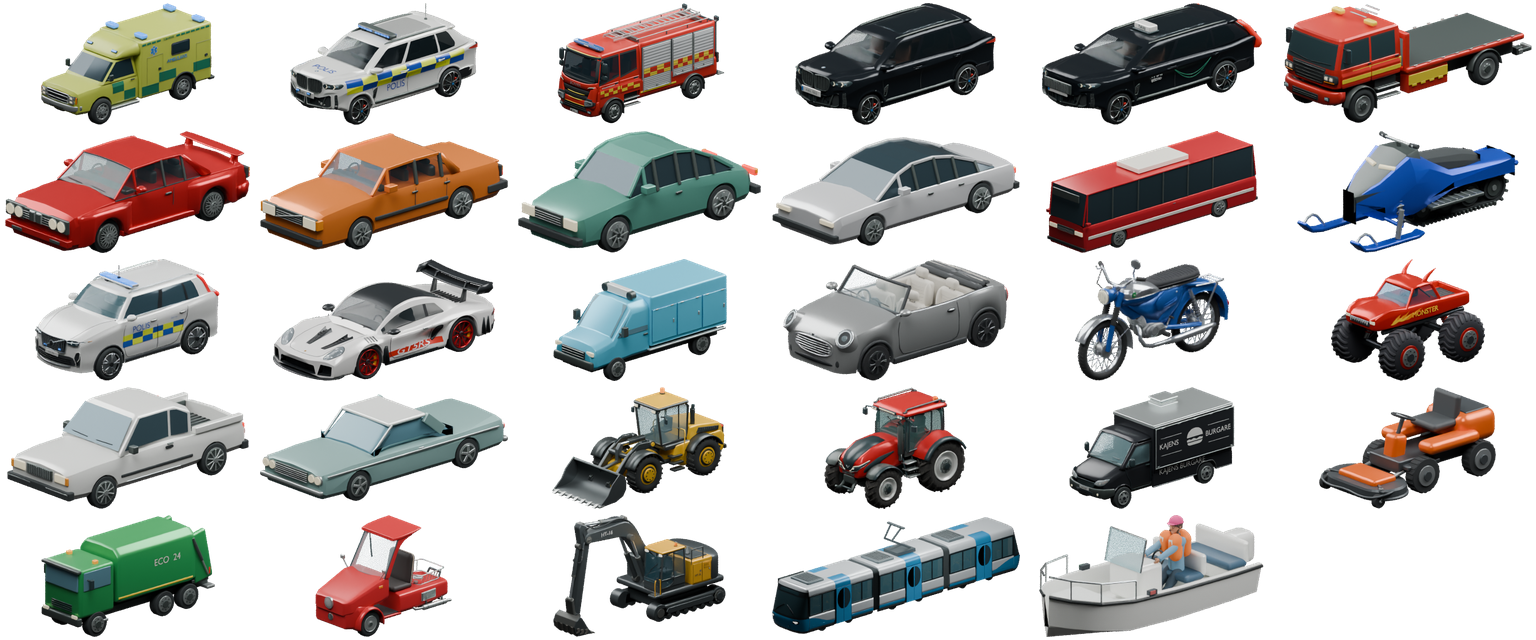
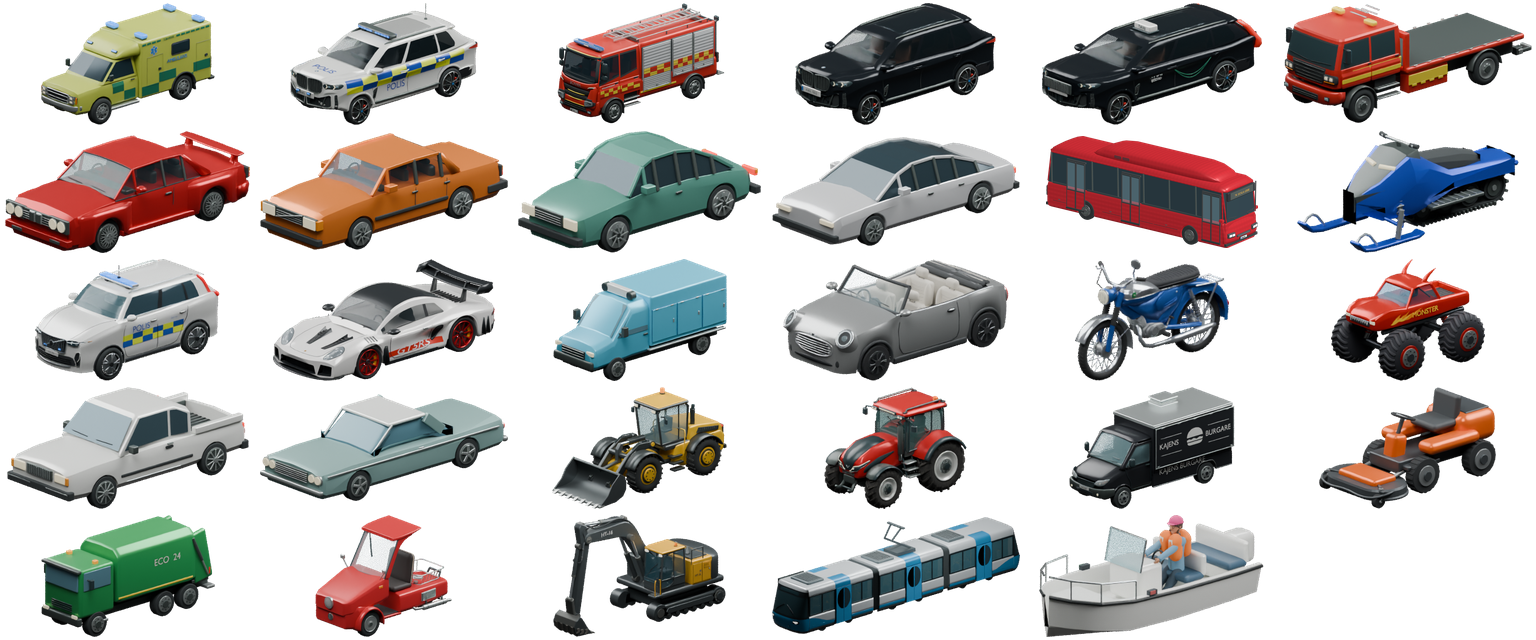
Refresh the line 74 bus image in the vehicle menu

Changed region(s): [[0.6562, 0.1875, 0.8438, 0.4062]]

diff --git a/docs/Arbetslista.md b/docs/Arbetslista.md
@@ -144,5 +144,5 @@ Listan innehåller 100 jobb. En tom ruta är öppen. En punkt bockas av när bet
   - På AMD Radeon Graphics (Renoir) med Vulkan Mobile, 1920 × 1080 och V-sync mättes 105 verkliga bildintervall per ljusläge från samma kamera. Simuleringen stegade 0,2 sekunder per steg för att alla tre spelarna skulle hinna kasta under färjans överfart. Dag: median 54,5 ms, 95:e percentil 64,2 ms. Natt: median 60,2 ms, 95:e percentil 67,1 ms.
 - [ ] 100. Spela igenom en leverans från början till slut med musik och trafik igång. Anteckna exakt var en replik blir svår att höra och justera mixen där. Däckskrik, sopbilens kärllyft och färjans ombordstigningssignal går nu genom talstyrd dämpning. Verifierat med testsignal i Godot. Flakbilen har provkörts från torget till bageriet med svensk radio och tio trafikfordon. Lastning, väntan vid rödljus och mottagningskvitto fungerade. Vid torget låg radions toppnivå minst 16 dB under talets vid de uppmätta talproven under vägbeskrivningen. Vid en ny inspelning låg radions topp över talets under ett kort parti ungefär en sekund in i vägbeskrivningen. Radion hålls nu nere genom hela telefonrepliken med upp till 8 dB extra dämpning. En ny provkörning gav mottagningskvitto med den justerade mixen. En lyssningsbedömning återstår. Radions låttitel visas under överkantens högra sida. En lång titel ryms utan överlapp med telefon eller uppdragstext på alla sju språk vid prov med brandbilen. Farten och körhjälpen har separata rader som följer textens höjd. Kontrollerat under det svenska brandbilsuppdraget vid kliniken.
 
-- [ ] Modellera om buss 74 mot Sickla Udde. Rundat tak, vindrutetorkare och strålkastarramar har kontrollerats i spelet. Stålfälgar, stolsrader och gula handräcken har också kontrollerats i Godot. Testet för alla sex hållplatser passerade efter ändringen. Nedre karosspaneler och vänsterstyrd förarplats med instrumentpanel och ratt har lagts till. Den ordinarie förarvyn kontrollerades genom vindrutan vid en korsning. Bakpartiet fick motorlucka, kylgaller och reflexer. Den bakre destinationsskylten granskades i Godot och ruttestet passerade igen. Fronten har fått mörk skyltinfattning och registreringsskylten HBR 074. Kontrollerat i Godot med [SL:s foto av linje 74](https://www.mynewsdesk.com/se/sl/news/bussar-och-daaligt-vaeglag-442788) som visuell referens. Bakljusen har separata orange, röda och vita linser. Backljus och avgångsblinkers verifierades i Godot. Den valda spelaren syns nu vid ratten i bussens yttre vy. Förarens sittställning granskades genom vindrutan. Axel och Alma behöll greppet vid styrning åt båda håll och doldes korrekt i förarvyn. Båda vindrutetorkarna sveper vid nederbörd och återgår till viloläget, verifierat i Godot. Bussen har också en destinationsskylt vid framdörren, granskad i Godot. Visuell delbedömning mot SL:s front- och sidofoto: silhuett 74, proportioner 72, färg och material 76, exteriöra detaljer 78. Oviktat medel 75/100. Referensbussen har mjukare front, mer integrerade strålkastare och tydligare dörrparti. Referensen ger för lite insyn för att betygsätta interiören. Efter bedömningen modellerades tre dubbeldörrar med tonat glas och egna karmar. Framdörren flyttades framför framaxeln. Fronten fick välvd panel, nedre luftintag och fyra infattade linser. De två ljuskäglorna följer linsernas positioner. Granskad i Godot med godkänt ruttest. Den upphöjda takkåpan har nu avsmalnande ändar och ventiler. Ny visuell delbedömning mot samma sidoreferens efter dörrar, front och takkåpa: silhuett 84, proportioner 79, färg och material 76, exteriöra detaljer 85. Medel 81/100 vid den bedömningen. Därefter fick karossen dämpad röd lack, mörka fönsterlister och ett längre gummigolv. Färgsättning och golv granskade i Godot och ruttestet passerade. Tre takarmaturer lyser upp kupén när det blir mörkt. Tändning och släckning verifierades i ruttestet och kupén granskades i nattläge.
+- [ ] Modellera om buss 74 mot Sickla Udde. Rundat tak, vindrutetorkare och strålkastarramar har kontrollerats i spelet. Stålfälgar, stolsrader och gula handräcken har också kontrollerats i Godot. Testet för alla sex hållplatser passerade efter ändringen. Nedre karosspaneler och vänsterstyrd förarplats med instrumentpanel och ratt har lagts till. Den ordinarie förarvyn kontrollerades genom vindrutan vid en korsning. Bakpartiet fick motorlucka, kylgaller och reflexer. Den bakre destinationsskylten granskades i Godot och ruttestet passerade igen. Fronten har fått mörk skyltinfattning och registreringsskylten HBR 074. Kontrollerat i Godot med [SL:s foto av linje 74](https://www.mynewsdesk.com/se/sl/news/bussar-och-daaligt-vaeglag-442788) som visuell referens. Bakljusen har separata orange, röda och vita linser. Backljus och avgångsblinkers verifierades i Godot. Den valda spelaren syns nu vid ratten i bussens yttre vy. Förarens sittställning granskades genom vindrutan. Axel och Alma behöll greppet vid styrning åt båda håll och doldes korrekt i förarvyn. Båda vindrutetorkarna sveper vid nederbörd och återgår till viloläget, verifierat i Godot. Bussen har också en destinationsskylt vid framdörren, granskad i Godot. Visuell delbedömning mot SL:s front- och sidofoto: silhuett 74, proportioner 72, färg och material 76, exteriöra detaljer 78. Oviktat medel 75/100. Referensbussen har mjukare front, mer integrerade strålkastare och tydligare dörrparti. Referensen ger för lite insyn för att betygsätta interiören. Efter bedömningen modellerades tre dubbeldörrar med tonat glas och egna karmar. Framdörren flyttades framför framaxeln. Fronten fick välvd panel, nedre luftintag och fyra infattade linser. De två ljuskäglorna följer linsernas positioner. Granskad i Godot med godkänt ruttest. Den upphöjda takkåpan har nu avsmalnande ändar och ventiler. Ny visuell delbedömning mot samma sidoreferens efter dörrar, front och takkåpa: silhuett 84, proportioner 79, färg och material 76, exteriöra detaljer 85. Medel 81/100 vid den bedömningen. Därefter fick karossen dämpad röd lack, mörka fönsterlister och ett längre gummigolv. Färgsättning och golv granskade i Godot och ruttestet passerade. Tre takarmaturer lyser upp kupén när det blir mörkt. Tändning och släckning verifierades i ruttestet och kupén granskades i nattläge. Fordonsmenyn visar en ny bild av den omarbetade bussen, verifierad i spelet.
 - [x] Bygg en trafikskola med körskolebil och körövningar för trafikregler. Skolbyggnaden och 20-skylten finns på övningsbanan. Svensk fasadskylt granskad i Godot. Grundläggande körning, återställning och ombordstigning passerade övningsbanans test. Övningskörning startar i en skyltad BMW X5. Skylten kontrollerades i spelet och testades vid urstigning och återgång till staden. Hastighetsövningen ger återkoppling över 20 km/h och godkänner 15 meter framåt inom gränsen. Verifierad i Godot. Stoppliktsövningen kräver fullt stopp vid linjen och ger ett nytt försök efter överkörning. Skylt och linje granskade i Godot. Trafikljusövningen godkänner passage först efter stopp vid rött och passage vid grönt. Avvisad passage vid rött och godkänd passage vid grönt verifierades i Godot. Stadens sex korsningar passerade sina tester. Avklarade delmoment och lektionens resultat sparas per profil. Återupptagning verifierad både före och efter avslutad lektion. Körning runt stopplinjen eller trafikljuset ger ett nytt försök, verifierat för båda momenten.
